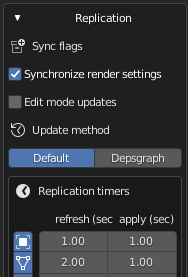
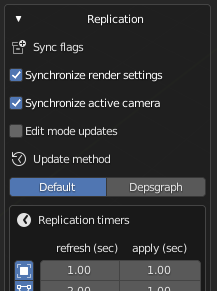
doc: update replication flag section

Changed region(s): [[0.0266, 0.0, 1.0, 1.0], [0.0266, 0.231, 0.8777, 0.2888], [0.0532, 0.1155, 0.4521, 0.2022]]

diff --git a/docs/getting_started/quickstart.rst b/docs/getting_started/quickstart.rst
@@ -161,6 +161,19 @@ The collaboration quality directly depend on the communication quality. This sec
 various tools made in an effort to ease the communication between the different session users.
 Feel free to suggest any idea for communication tools `here <https://gitlab.com/slumber/multi-user/-/issues/75>`_ .
 
+---------------------------
+Change replication behavior
+---------------------------
+
+During a session, the multi-user will replicate your modifications to other instances.
+In order to avoid annoying other users when you are experimenting, some of those modifications can be ignored via 
+various flags present at the top of the panel (see red area in the image bellow). Those flags are explained in the :ref:`replication` section.
+
+.. figure:: img/quickstart_replication.png
+      :align: center
+
+      Session replication flags
+
 --------------------
 Monitor online users
 --------------------
@@ -241,6 +254,8 @@ various drawn parts via the following flags:
 - **Show selected objects**: display other users current selection
 - **Show users**: display users current viewpoint 
 - **Show different scenes**: display users working on other scenes
+
+
 
 -----------
 Manage data
@@ -330,6 +345,8 @@ of the multi-user are using the same IPC port it will create conflict !
 **Timeout (in milliseconds)** is the maximum ping authorized before auto-disconnecting.
 You should only increase it if you have a bad connection.
 
+.. _replication:
+
 -----------
 Replication
 -----------
@@ -340,6 +357,8 @@ Replication
    Advanced replication settings
 
 **Synchronize render settings** (only host) enable replication of EEVEE and CYCLES render settings to match render between clients.
+
+**Synchronize active camera** sync the scene active camera.
 
 **Edit Mode Updates** enable objects update while you are in Edit_Mode.
 
